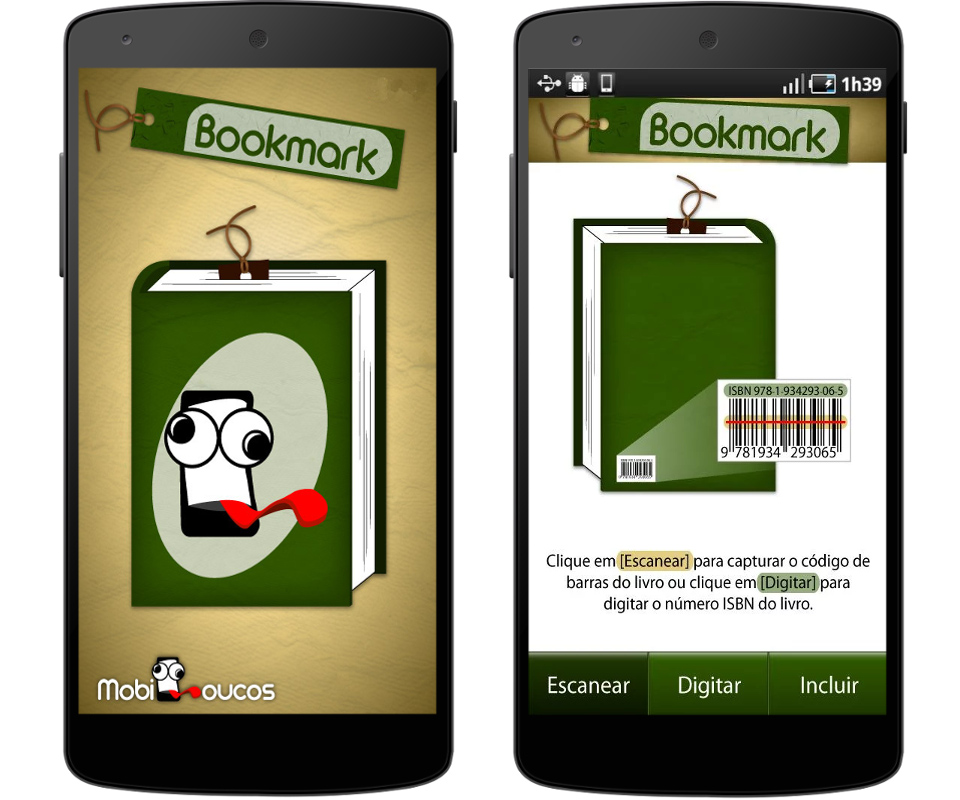
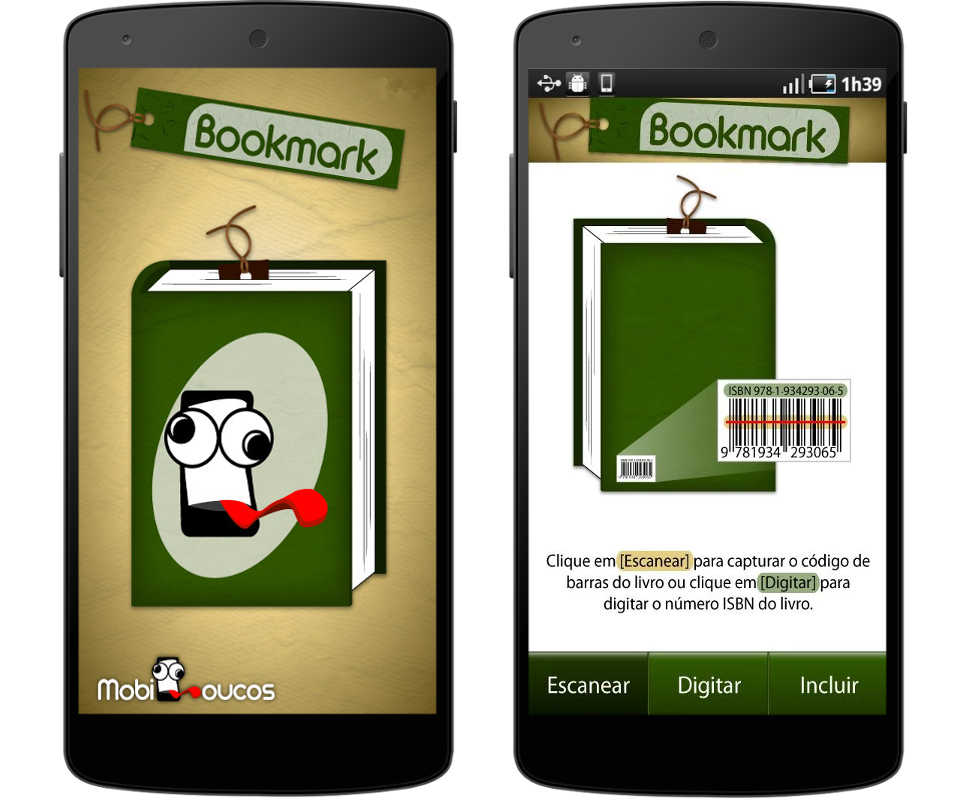
Add atlantico to portfolio.
Improve page load, reducing jpeg quality.

diff --git a/niltonvasques.js b/niltonvasques.js
@@ -27,13 +27,17 @@ if (Meteor.isClient) {
     ],
     projects : [
       { name: "Pega Ladrão", image: "images/pega-ladrao.jpg", link_text: "Google Play",
-        rating: "4.4",
+        rating: "4.4", fa: "android",fa_color: "lime-text text-accent-4",
         link : "https://play.google.com/store/apps/details?id=com.mobiloucos2.pegaladrao",
         description: "Você teme que seu telefone seja levado enquanto você estiver distraído? Ou que alguém olhe suas informações pessoais? Pega Ladrão é o aplicativo certo para você, caso alguma pessoa pegue o seu telefone enquanto o Pega Ladrão estiver ativo, ele vai soar um alarme alto, disparar um sirene da polícia, começar a vibrar e a piscar efeitos na tela, fazendo assim que a pessoa desista de levar seu telefone, ou melhor que você perceba que alguém está com ele." },
-      { name: "Marcador de Livros Android", image: "images/bookmark.jpg", 
-        link_text: "Google Play", rating: "4.5",
+      { name: "Marcador de Livros Android", image: "images/bookmark.jpg", fa: "android",
+        link_text: "Google Play", rating: "4.5", fa_color: "lime-text text-accent-4",
         link : "https://play.google.com/store/apps/details?id=com.mobiloucos2.marcadordelivros",
-        description: "Marque onde parou as leituras de seus livros com o Marcador de Livros.          Faça no celular, as marcações dos livros que você lê! Economize espaço, papel, e nunca perca as marcações das leituras de seus livros favoritos! Acompanhe o andamento das leituras de todos seus livros com o Marcador de Livros, além de guardar na lista os livros que você já leu ou vai ler, como uma estante virtual móvel!." }
+        description: "Marque onde parou as leituras de seus livros com o Marcador de Livros.          Faça no celular, as marcações dos livros que você lê! Economize espaço, papel, e nunca perca as marcações das leituras de seus livros favoritos! Acompanhe o andamento das leituras de todos seus livros com o Marcador de Livros, além de guardar na lista os livros que você já leu ou vai ler, como uma estante virtual móvel!." },
+      { name: "Atlântico Português", image: "images/atlantico.jpg", fa: "desktop",
+        link_text: "Atlântico Portal",fa_color: "black-text",
+        link : "https://www.atlanticoportugues.ufba.br",
+        description: "O portal Atlântico Português foi desenvolvido em Ruby on Rails, e tem como objetivo hospedar documentos históricos. Facilitando assim o acesso dos documentos aos pesquisadores envolvidos no projeto. Para a realização das buscas, utilizou-se o robusto framework de indexação reversa Solr, acelerando assim a velocidade do resultado das buscas." }
     ]
   });
 

diff --git a/niltonvasques.html b/niltonvasques.html
@@ -12,7 +12,7 @@
           <li><a href="#me">Sobre</a></li>
           <li><a href="#skills">Skills</a></li>
           <li><a href="#projects">Projetos</a></li>
-          <li><a href="#how">Contato</a></li>
+          <li><a href="#contact">Contato</a></li>
         </ul>
       </div>
     </nav>
@@ -29,7 +29,7 @@
         </h3>
         <img id="profile" src="images/profile.jpg" alt="" class="circle responsive-img z-depth-3">
         <p class="flow-text white-text">
-          Sou graduando em Ciência da Computação na  Universidade  Federal  da  Bahia, com enfâse em agrupamento e extração de descritores fuzzy em documentos de text. Possuo experiências  nas  áreas de desenvolvimento de jogos, android, ruby on rails, nodejs, Meteor, Linux, MySQL, Postgres e .NET. Programo nas linguagens de programação Java, Ruby, C/C++, SQL, Shell Script, Prolog e C#.
+          Sou graduando em Ciência da Computação na  Universidade  Federal  da  Bahia, com enfâse em agrupamento e extração de descritores fuzzy em documentos de texto. Possuo experiências  nas  áreas de desenvolvimento de jogos, android, ruby on rails, nodejs, Meteor, Linux, MySQL, Postgres e .NET. Programo nas linguagens de programação Java, Ruby, C/C++, SQL, Shell Script, Prolog e C#.
         </p>
       </div>
     </div>
@@ -70,7 +70,7 @@
   </div>
 
   <div class="section blue-grey darken-4 z-depth-2">
-    <div id="how" class="container">
+    <div id="contact" class="container">
       <div class="row">
         <h2 class="white-text">Como me encontrar?</h2>
         <span class="white-text flow-text">
@@ -147,10 +147,11 @@
           <span class="card-title activator grey-text text-darken-4">
             <div class="col s8 m8">
               <p>
-                <i class="fa fa-android lime-text text-accent-4"></i>
+                <i class="fa fa-{{fa}} {{fa_color}}"></i>
                 {{name}}
               </p>
             </div>
+            {{#if rating}}
             <div class="col s4 m4">
               <p class="amber-text text-darken-2">
                 {{rating}}
@@ -161,6 +162,7 @@
                 <i class="fa fa-star-half-o"></i>
               </p>
             </div>
+            {{/if}}
           </span>
         </div>
         <div class="row">
